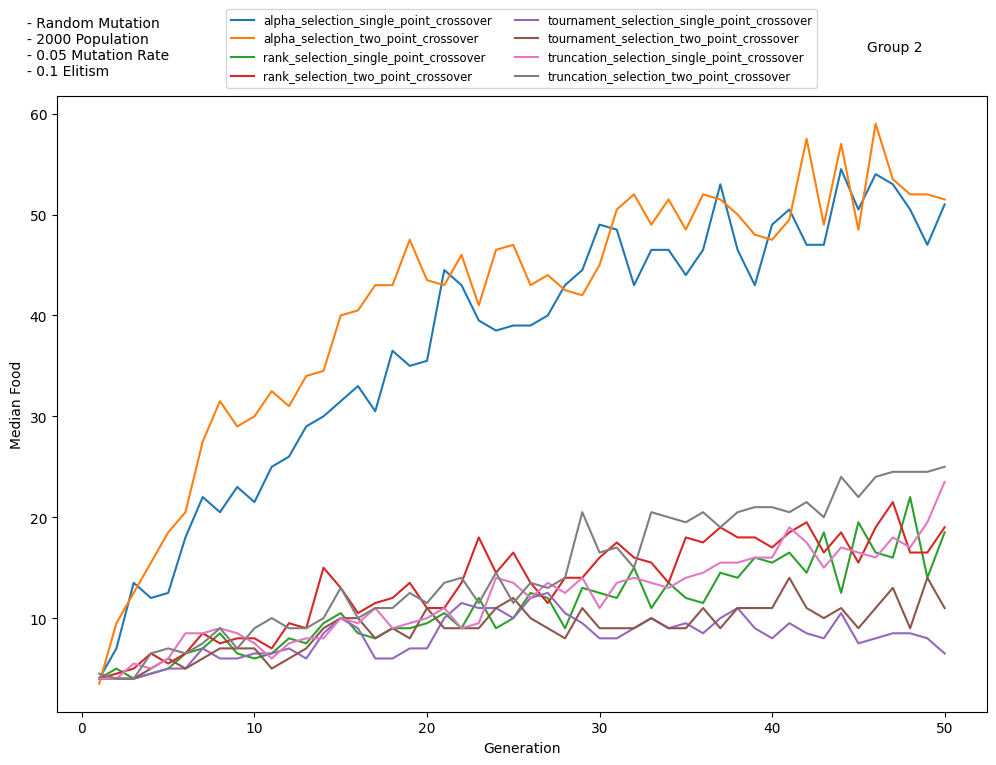
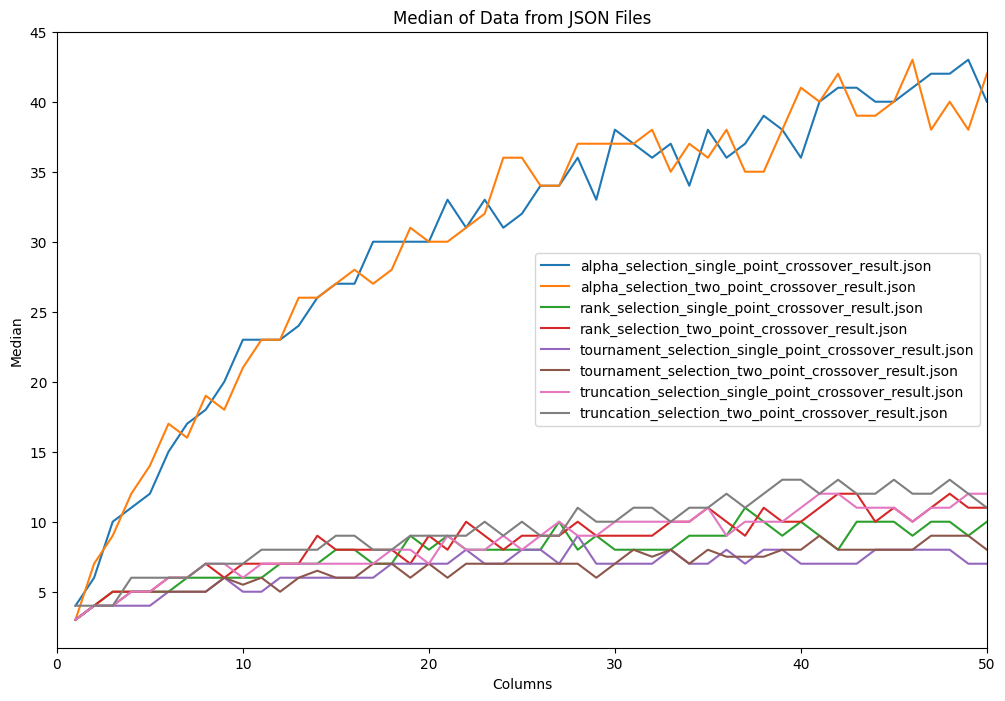
added combined plot

diff --git a/dict_maker_combined.py b/dict_maker_combined.py
@@ -1,0 +1,48 @@
+import pandas as pd
+import os
+from collections import defaultdict
+import json
+
+# Define the directory where the CSV files are located
+directory = './raw_data/combined'
+
+# Define the combinations
+combinations = ['alpha_selection_single_point_crossover', 'alpha_selection_two_point_crossover', 
+                'rank_selection_single_point_crossover', 'rank_selection_two_point_crossover', 
+                'truncation_selection_single_point_crossover', 'truncation_selection_two_point_crossover', 
+                'tournament_selection_single_point_crossover', 'tournament_selection_two_point_crossover']
+
+# Create a defaultdict for each combination
+results = {combination: defaultdict(list) for combination in combinations}
+
+# Iterate over all subdirectories in the directory
+for subdir, dirs, files in os.walk(directory):
+    for file in files:
+        # Check if the file is a CSV file
+        if file.endswith('Generation_Food.csv'):
+            # Construct the full file path
+            file_path = os.path.join(subdir, file)
+            
+            try:
+                # Read the CSV file
+                df = pd.read_csv(file_path)
+                
+                # Get the subdirectory name
+                subdir_name = os.path.basename(subdir)
+                
+                # Check if the subdirectory name starts with any of the combinations
+                for combination in combinations:
+                    if subdir_name.startswith(combination):
+                        # Append the 'Food' values to the corresponding generation in the result dict
+                        for index, row in df.iterrows():
+                            if int(row['Generation']) <= 50:
+                                results[combination][int(row['Generation'])].append(int(row['Food']))
+                        break
+            except pd.errors.EmptyDataError:
+                print(f"Error reading file in subdirectory: {subdir} - {file}")
+
+# Convert the defaultdicts to regular dicts and save them to JSON files
+for combination, result in results.items():
+    result_dict = dict(result)
+    with open(f'{combination}_result.json', 'w') as f:
+        json.dump(result_dict, f)

diff --git a/plotting_media_plot_mut.py b/plotting_media_plot_mut.py
@@ -10,7 +10,7 @@ class GraphMaker:
 
     def create_graph(self):
         # Get a list of all JSON files in the directory
-        json_files = glob.glob('median_files/*.json')
+        json_files = glob.glob('crossover_selections/*.json')
 
         plt.figure(figsize=(12, 8))
 
